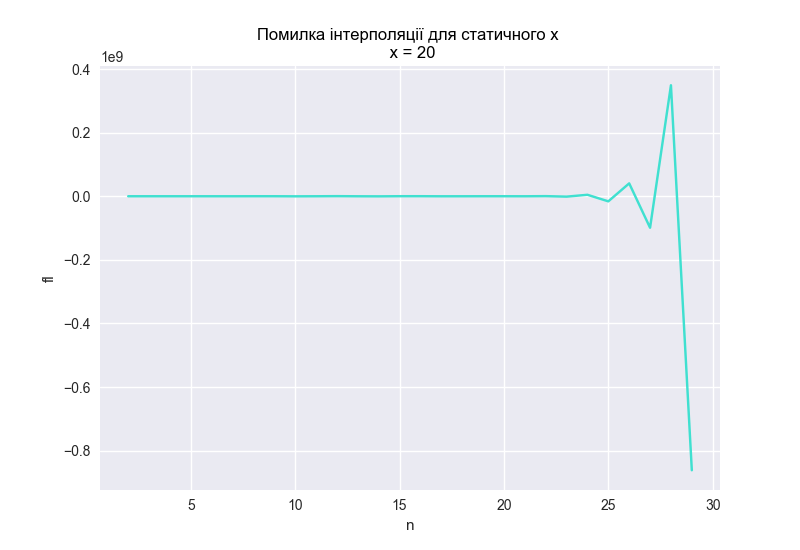
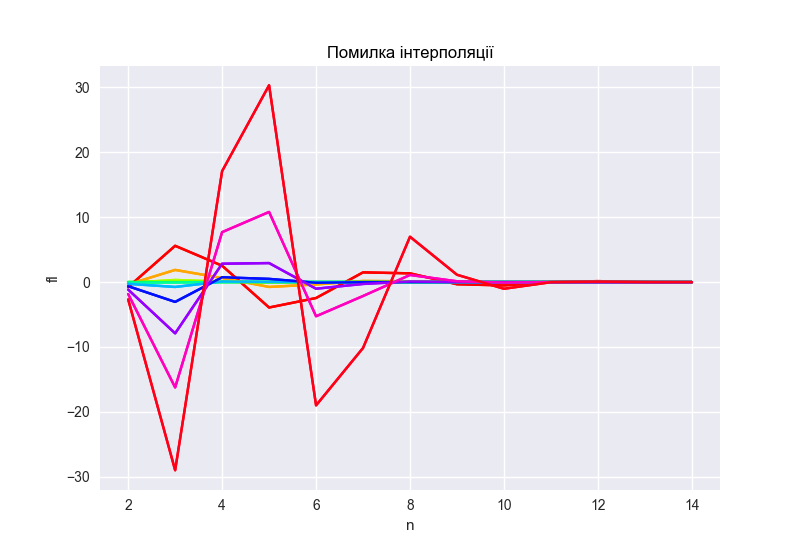
NERABOTAENCHEGOTO

diff --git a/bot.py b/bot.py
@@ -1,7 +1,7 @@
 import telebot
 from telebot import types
 from os import path, getcwd, listdir
-from labs import lab1, lab2
+from labs import lab1, lab2, lab3
 from random import sample
 from time import sleep, time
 TOKEN = "490295677:AAHMScwGt5h4g0jWPvWx-0euxpbU2z1MHjM"
@@ -31,15 +31,39 @@ def handle_start(message):
 
 @bot.callback_query_handler(func=lambda call: True)
 def callback_inline(call):
-    global d
+    global d, marker, inter
+
+    def l3():
+        kb = types.InlineKeyboardMarkup()
+        kb.add(types.InlineKeyboardButton(
+            text="Інтерполяція за Лагранжем", callback_data="l3-l"))
+        kb.add(types.InlineKeyboardButton(
+            text="Інтерполяція за Ньотоном", callback_data="l3-n"))
+        kb.add(types.InlineKeyboardButton(
+            text="Інтерполяція за Ейткіном", callback_data="l3-e"))
+        bot.edit_message_text(chat_id=call.message.chat.id, message_id=call.message.message_id,
+                              text="Оберіть вид інтерполяції", reply_markup=kb)
+
+    def out3():
+        d1 = {1: "f(x) = Sin(x)", 2: "f(x) = Cos(x + e^(Cosx))"}
+        d2 = {"l3-l": "За Лагранжем", "l3-n": "За Ньютоном", "l3-e": "За Ейткіном"}
+        kb = types.InlineKeyboardMarkup()
+        kb.add(types.InlineKeyboardButton(
+            text="Порахувати х", callback_data="l3-x"))
+        kb.add(types.InlineKeyboardButton(
+            text="Вивести інформацію", callback_data="l3-і"))
+        bot.edit_message_text(chat_id=call.message.chat.id, message_id=call.message.message_id,
+                              text=d1[marker] + "\n" + d2[d[call.message.chat.id]], reply_markup=kb)
+
     if call.message:
         if call.data == "lab1":
+            d[call.message.chat.id] = "lab1"
             kb = types.InlineKeyboardMarkup()
             kb.add(types.InlineKeyboardButton(text="-1", callback_data="l1-1"))
             kb.add(types.InlineKeyboardButton(text="-2", callback_data="l1-2"))
             kb.add(types.InlineKeyboardButton(text="-3", callback_data="l1-3"))
-            bot.send_message(
-                call.message.chat.id, text="Оберіть номер алгоритму:\n 1) лінійний\n 2) нелійний\n 3) циклічний", reply_markup=kb)
+            bot.edit_message_text(chat_id=call.message.chat.id, message_id=call.message.message_id,
+                                  text="Оберіть номер алгоритму:\n 1) лінійний\n 2) нелійний\n 3) циклічний", reply_markup=kb)
         elif call.data == "l1-1":
             d[call.message.chat.id] = "l1-1"
             markup = types.ForceReply(selective=False)
@@ -57,14 +81,16 @@ def callback_inline(call):
                 ".\\labs\\lab1\\3.png", 'rb'), caption="Введіть а b p", reply_markup=markup)
 
         elif call.data == "lab2":
+            d[call.message.chat.id] = "lab2"
             kb = types.InlineKeyboardMarkup()
             kb.add(types.InlineKeyboardButton(
                 text="Порахувати", callback_data="l2-1"))
             kb.add(types.InlineKeyboardButton(
                 text="Графікі складності", callback_data="l2-2"))
-            bot.send_message(
-                call.message.chat.id, text="Алгоритм: прискорене бульбашкове сортування з початку до кінця. ", reply_markup=kb)
+            bot.edit_message_text(chat_id=call.message.chat.id, message_id=call.message.message_id,
+                                  text="Алгоритм: прискорене бульбашкове сортування з початку до кінця. ", reply_markup=kb)
         elif call.data == "l2-1":
+            d[call.message.chat.id] = "l2-1"
             kb = types.InlineKeyboardMarkup()
             kb.add(types.InlineKeyboardButton(
                 text="Порахувати за введенним масивом", callback_data="l2-11"))
@@ -89,10 +115,60 @@ def callback_inline(call):
             bot.send_message(call.message.chat.id,
                              text="Надішліть файл з масивом для сортування")
         elif call.data == "l2-2":
+            d[call.message.chat.id] = "l2-2"
             bot.send_photo(call.message.chat.id, open(getcwd() + "\labs\lab2\Theory.png", 'rb'),
                            caption="Графік теоретично відомої обчислювальної складності")
             bot.send_photo(call.message.chat.id, open(getcwd() + "\labs\lab2\Practice.png", 'rb'),
                            caption="Графік залежності часу виконання алгоритму від розміру вхідного масиву даних.")
+
+        elif call.data == "lab3":
+            d[call.message.chat.id] = "lab3"
+            kb = types.InlineKeyboardMarkup()
+            kb.add(types.InlineKeyboardButton(
+                text="f(x) = Sin(x)", callback_data="l3-1"))
+            kb.add(types.InlineKeyboardButton(
+                text="f(x) = Cos(x + e^(Cosx))", callback_data="l3-2"))
+            bot.edit_message_text(chat_id=call.message.chat.id, message_id=call.message.message_id,
+                                  text="Інтерполяція функцій. Оберіть функцію для доослідження", reply_markup=kb)
+        elif call.data == "l3-1":
+            d[call.message.chat.id] = "l3-1"
+            marker = 1
+            l3()
+        elif call.data == "l3-2":
+            d[call.message.chat.id] = "l3-2"
+            marker = 2
+            l3()
+        elif call.data == "l3-l":
+            d[call.message.chat.id] = "l3-l"
+            inter = lab3.lagrange
+            out3()
+        elif call.data == "l3-n":
+            d[call.message.chat.id] = "l3-n"
+            inter = lab3.newton
+            out3()
+        elif call.data == "l3-e":
+            d[call.message.chat.id] = "l3-e"
+            inter = lab3.neville
+            out3()
+        elif call.data == "l3-x":
+            d[call.message.chat.id] = "l3-x"
+            markup = types.ForceReply(selective=False)
+            bot.send_message(
+                call.message.chat.id, text="Введіть X",  reply_markup=markup)
+        elif call.data == "l3-і":
+            d[call.message.chat.id] = "l3-i"
+            lab3.generateInfo(marker, inter)
+            if marker == 1:
+                bot.send_photo(call.message.chat.id, open(getcwd() + "\labs\lab3\sin.png", 'rb'),
+                           caption="Графік інтерпольованої функції")
+            elif marker == 2:
+                bot.send_photo(call.message.chat.id, open(getcwd() + "\labs\lab3\\10.png", 'rb'),
+                           caption="Графік інтерпольованої функції")
+            bot.send_photo(call.message.chat.id, open(getcwd() + "\labs\lab3\\fluff.png", 'rb'),
+                           caption="Графік похибок інтерполяції")
+            bot.send_document(call.message.chat.id, open(
+                    'labs/lab3/fluff_table.xlsx', 'rb'), caption="Таблиця оцінок")
+            
 
 
 @bot.message_handler(content_types=["text"])
@@ -135,7 +211,7 @@ def calculations(message):
                     file.write(str(sm))
                 sleep(140)
                 bot.send_message(
-                    message.chat.id, text="Час сортування: " + str(time()-t1))
+                    message.chat.id, text="Час сортування: " + str(time() - t1))
                 bot.send_document(message.chat.id, open(
                     'labs/lab2/notsorted.txt', 'rb'), caption="Невідсортований масив")
                 bot.send_document(message.chat.id, open(
@@ -148,9 +224,9 @@ def calculations(message):
                 sm = sorted(m)
                 with open(getcwd() + '\labs\lab2\\sorted.txt', 'w') as file:
                     file.write(str(sm))
-                sleep(40*len(str(n)))
+                sleep(40 * len(str(n)))
                 bot.send_message(
-                    message.chat.id, text="Час сортування: " + str(time()-t1))
+                    message.chat.id, text="Час сортування: " + str(time() - t1))
                 bot.send_document(message.chat.id, open(
                     'labs/lab2/notsorted.txt', 'rb'), caption="Невідсортований масив")
                 bot.send_document(message.chat.id, open(
@@ -159,6 +235,9 @@ def calculations(message):
         except ValueError:
             bot.send_message(
                 message.chat.id, text="Треба вводити цифри, а не букви! Обережніше!")
+    elif d.get(message.chat.id) == "l3-x":
+        bot.send_message(message.chat.id, text=lab3.generate(
+            marker, inter, message.text))
 
 
 @bot.message_handler(content_types=['document'])
@@ -175,6 +254,5 @@ def handle_file_input(message: types.Message):
         bot.send_message(
             message.chat.id, text="Відсортований масив: " + str(f[0]))
         bot.send_message(message.chat.id, text="Час виконання: " + str(f[1]))
-
 
 bot.polling(none_stop=True)

diff --git a/labs/lab3.py b/labs/lab3.py
@@ -124,7 +124,10 @@ def mistake(x: int or float, n: int, marker: int, interp_f: "function"):
     # оцінка похибки оцінки похибки
     fl_fl = p1 - p2
     # розмитість оцінки похбки
-    blur = abs(fl_fl / fl)
+    try:
+        blur = abs(fl_fl / fl)
+    except ZeroDivisionError:
+        blur = 0.0
     return fl, fl_fl, blur
 
 
@@ -189,23 +192,39 @@ def table_gen(x: int or float, marker: int, interp_f: "function"):
     wb.save(cwd + '\\labs\\lab3\\fluff_table.xlsx')
 
 
-def plot_fluff(x: int or float, marker: int, interp_f: "function"):
+def plot_fluff(marker: int, interp_f: "function"):
     """
     Plots a graphic of fluff \n
     :param marker: function to explore \n
     :param interp_f: interpolation function to use
     """
-    fluffs = [mistake(x, n, marker, interp_f) for n in range(2, 15)]
-    fls, fl_fls, blurs = zip(*fluffs)
-
     plt.style.use('seaborn')
     colors = ['black', 'turquoise', 'crimson']
     fig = plt.figure("Помилка інтерполяції")
     sub = plt.subplot()
     sub.set_xlabel("n")
     sub.set_ylabel("fl")
-    sub.set_title(
-        "Помилка інтерполяції для статичного х \n x = {}".format(x), color=colors[0])
-    sub.plot(list(range(2, 15)), fls, color=colors[1], zorder=1)
+    sub.set_title("Помилка інтерполяції", color=colors[0])
+    cmap = plt.cm.get_cmap('hsv', 10)
+    for x in range(0, 10):
+        fluffs = [mistake(x, n, marker, interp_f) for n in range(2, 15)]
+        fls, fl_fls, blurs = zip(*fluffs)
+        sub.plot(list(range(2, 15)), fls, color=cmap(x), zorder=1)
     fig.add_subplot(sub)
     plt.savefig(cwd + '\\labs\\lab3\\fluff.png')
+
+
+def generate(marker: int, inter: "func", text):
+    return str(inter(float(text), gxi(11), getFunc(gxi(11), marker)))
+
+
+def generateInfo(marker, inter):
+    table_gen(4, marker, inter)
+    if marker == 1:
+        plot_s(np.linspace(3,6,6),inter)
+    if marker == 2:
+        plot_h(np.linspace(0,6,6),inter)
+    plot_fluff(marker,inter)
+
+
+
